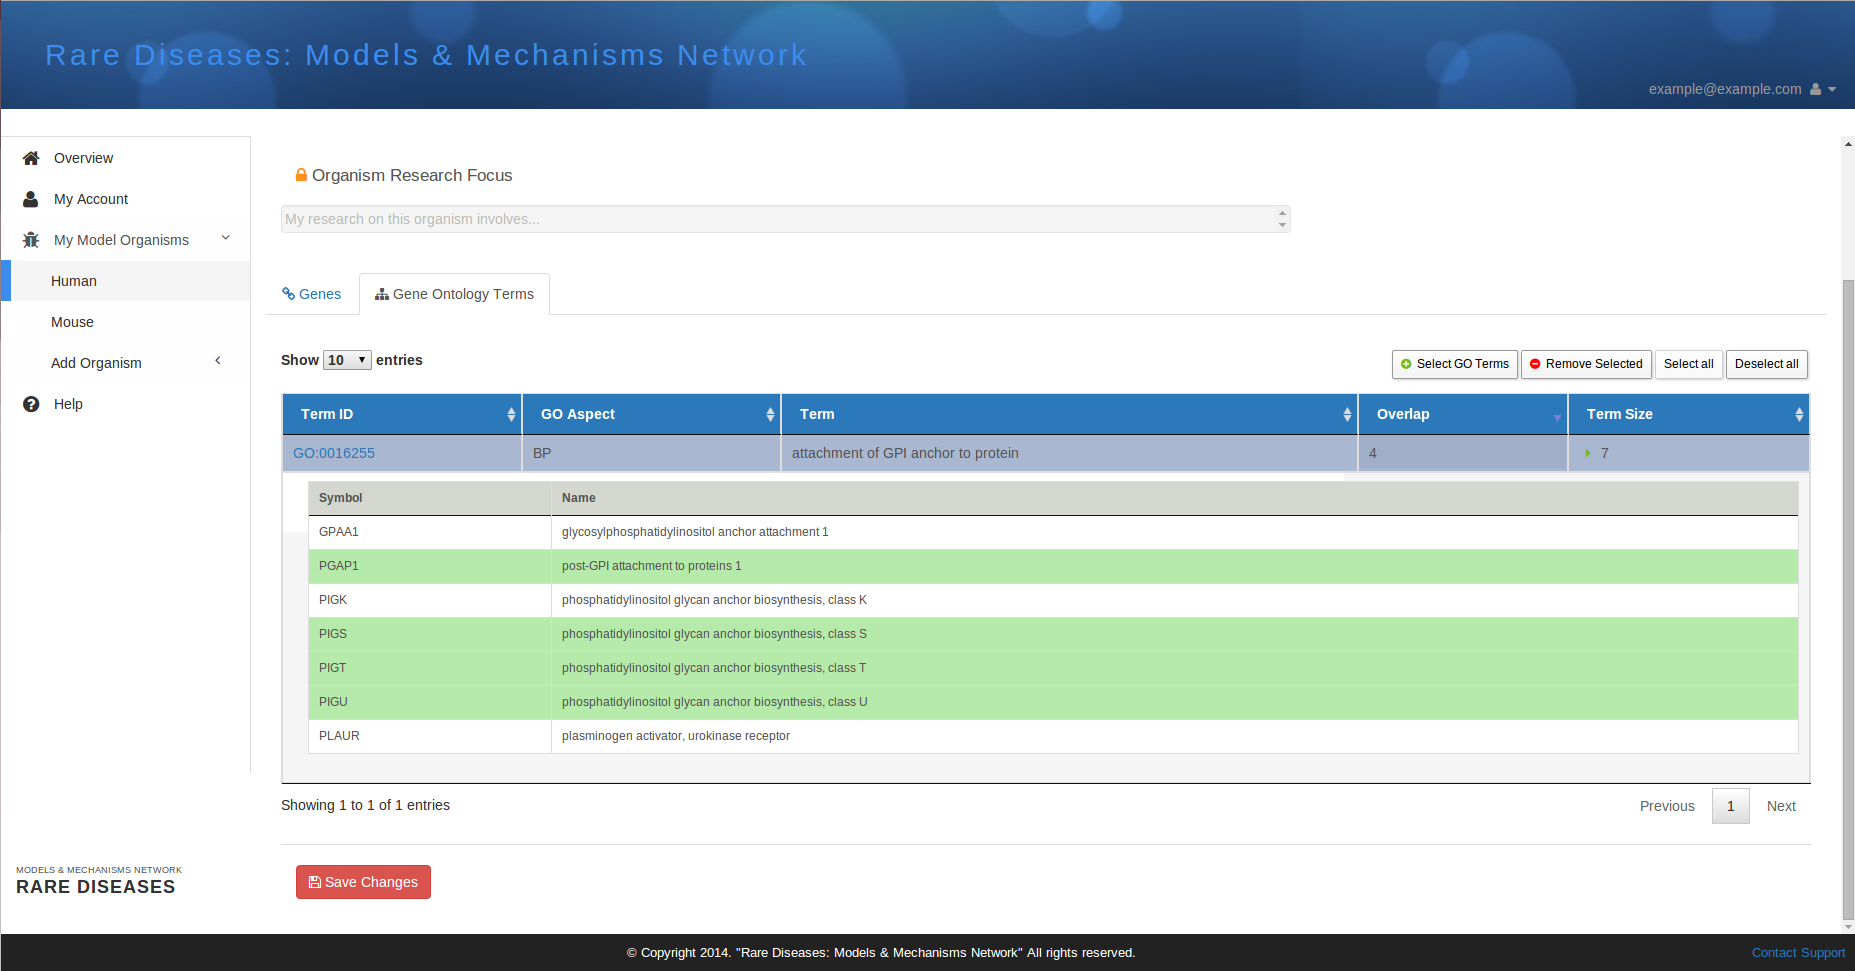
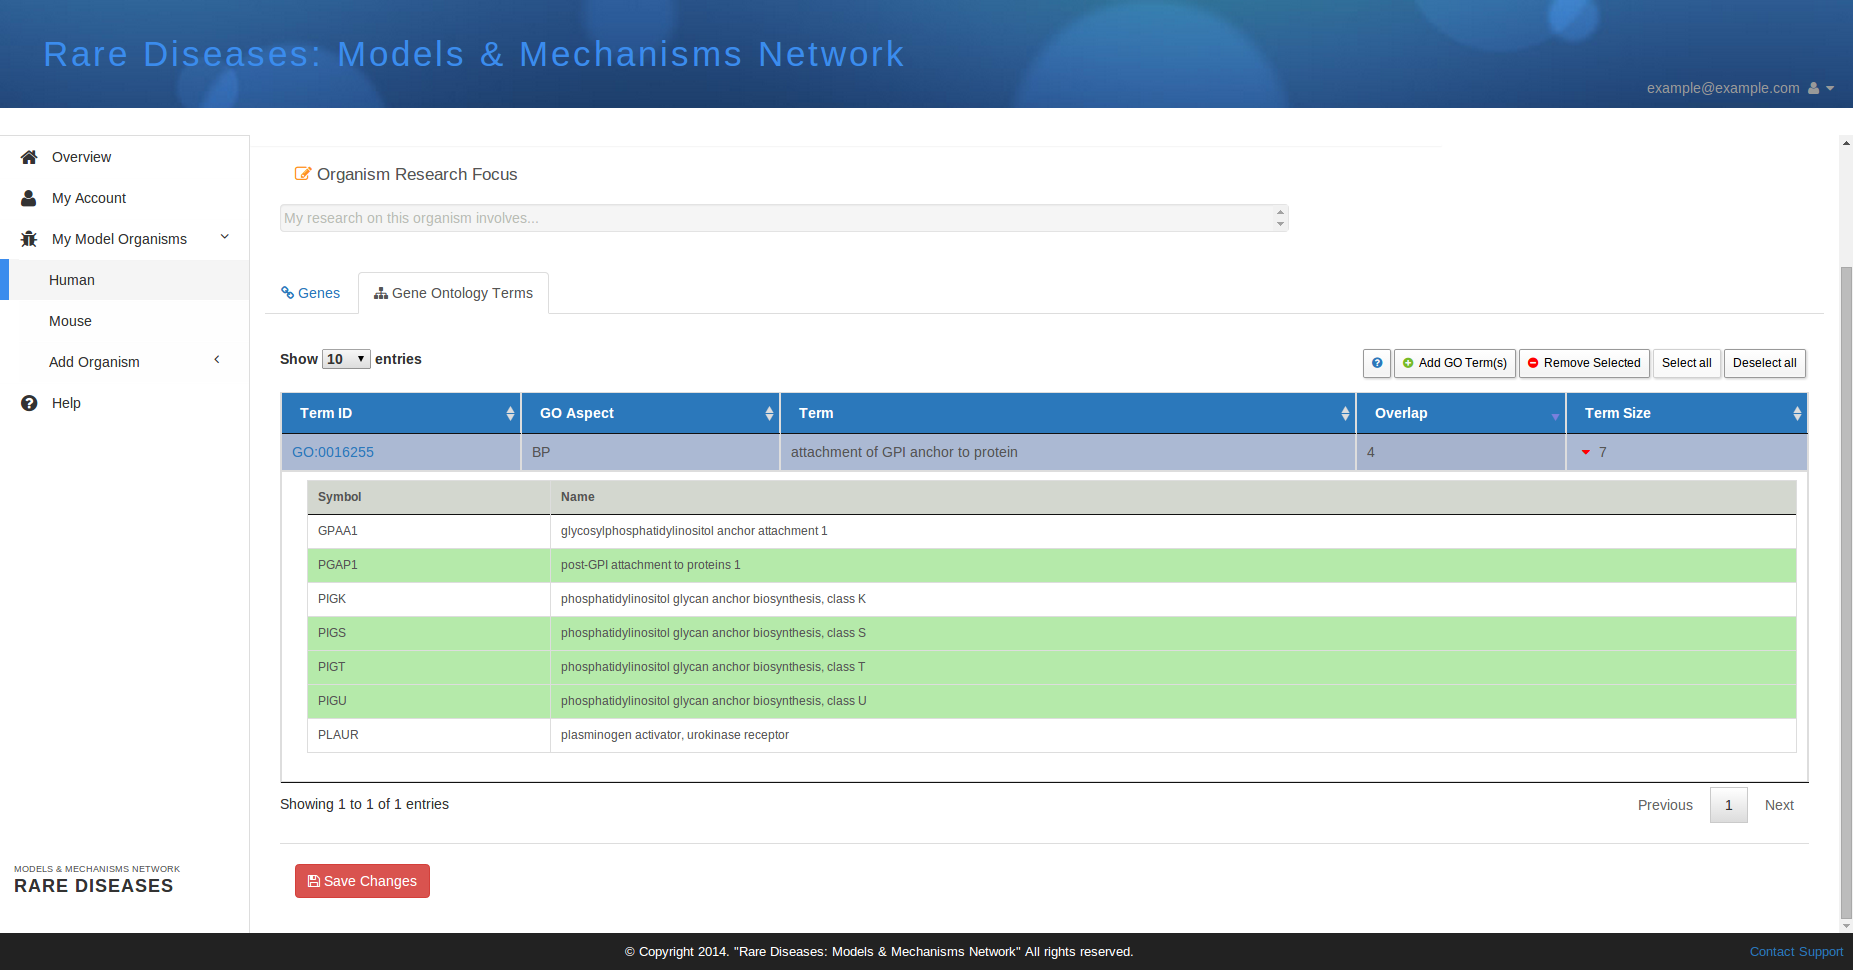
Reimplemented GO term searching, improved search regex (quoting against special characters, case insensitive), sidebar brand linked to gateway, updated help, added multiple select for terms, admin spinner for loading researchers,  minor UI changes

diff --git a/rdp/src/main/webapp/scripts/api/goManager.js b/rdp/src/main/webapp/scripts/api/goManager.js
@@ -50,6 +50,10 @@
       return utility.executeAjax( "getGOTermStats.html", {'geneOntologyId':geneOntologyId, 'taxonId':modelOrganisms.currentTaxonId()}, false );
    }
    
+   getGOTermsStats = function(geneOntologyIds) {
+      return utility.executeAjax( "getGOTermsStats.html", {'geneOntologyIds':geneOntologyIds, 'taxonId':modelOrganisms.currentTaxonId()}, false );
+   }
+   
    goManager.getGenePool = function(geneOntologyId) {
       return utility.executeAjax( "getGenePool.html", {'geneOntologyId':geneOntologyId, 'taxonId':modelOrganisms.currentTaxonId()}, false );
    }
@@ -172,6 +176,108 @@
 
    }
    
+   goManager.addSelectedTerms = function() {
+      var terms = goManager.select2().select2( "data" );
+      goManager.select2().select2( "val", "" );
+      
+      goManager.closeAddTermsModal();
+      
+      goManager.addGoTermsToTable(terms, true);
+
+   }
+   
+   goManager.addGoTermsToTable = function(terms, getStats) {
+
+      if ( terms.length ) {
+         var results = {'failed':[],'added':[], 'large':[]};
+         var refreshTerms = [];
+         var refreshIds = [];
+         for (var i = 0; i < terms.length; i++) {
+            var term = terms[i];
+            var res = addToTable(term)
+            if (!res.success) {
+               console.log(res)
+               console.log(results)
+               console.log(results[res.type])
+               results[res.type].push(res.data);
+            } else if ( getStats && res.row ) {
+               refreshTerms.push({term: term, row: res.row} );
+               refreshIds.push(term.geneOntologyId);
+            }
+         }
+         console.log(refreshTerms);
+         var promise = getGOTermsStats( refreshIds );
+         $.when(promise).done(function() {
+            console.log("promise: ", promise);
+            for (var i = 0; i < refreshTerms.length; i++) {
+               var term = refreshTerms[i].term;
+               var stats = promise.responseJSON[term.geneOntologyId];
+               if ( !utility.isUndefined(stats) ) {
+                  term.size = stats.geneSize;
+                  term.frequency = stats.frequency;
+                  refreshTerms[i].row.invalidate().draw(false);
+               } else {
+                  //Something went wrong.
+               }
+            }
+
+            
+         });
+
+         var delim = ", ";
+         var msg = [];
+         if (results['failed'].length) {
+            msg.push("<p><b>Failed to add</b>: " + results['failed'].join(delim) + "</p>");
+         }
+         
+         if (results['added'].length) {
+            msg.push("<p><b>Already added</b>: " + results['added'].join(delim) + "</p>");
+         }
+         
+         if (results['large'].length) {
+            msg.push("<p><b>Too large</b>: " + results['large'].join(delim) + "</p>");
+         }
+         
+         if (msg.length) {
+            msg = msg.join("\n");
+            var successCnt = terms.length - results['failed'].length -results['added'].length-results['large'].length
+            msg += "\n<b>Successfully added</b> " + successCnt +" term(s)."
+         } else {
+            msg = "<b>Successfully added</b> " + terms.length +" term(s)."
+         }
+         
+         utility.showMessage( msg, $( "#modelOrganisms .main-header .alert div" ) );
+         goManager.table().DataTable().rows().draw(false);
+      }
+   }
+   
+   addToTable = function(term) {
+      
+      if ( term == null ) {
+         console.log("Object is not a Term", term);
+         return {success:false, msg:"Object is not a Term", data:term, type:'failed' };
+      }
+            
+      var table = goManager.table().DataTable();
+      
+      if ( table.column(1).data().indexOf(term.geneOntologyId) != -1 ) {
+         console.log("GO Term already added")
+         return {success:false, msg:"GO Term already added", data:term.geneOntologyId, type:'added' };
+      }
+      
+      if (term.size > sizeLimit) {
+         console.log("GO Term too large")
+         return {success:false, msg:"GO Term too large", data:term.geneOntologyId, type:'large' };
+      }
+      
+      termRow = [term];
+      var inst = table.row.add( termRow );
+      inst.draw(false);
+      
+      return {success:true, row:inst};
+      
+   }
+   
    goManager.openAddTermsModal = function() {
       var dTable = goManager.suggestionTable().DataTable();
       dTable.clear();
@@ -283,7 +389,7 @@ return $(result);
       var dTable = goManager.suggestionTable().DataTable();
       var selectedNodes = dTable.rows( '.selected' );
       if ( selectedNodes.data().length == 0 ) {
-         console.log("Please select a terms to add")
+         console.log("Please select a term to add")
          //utility.showMessage( "Please select a gene to remove", $( "#geneManagerMessage" ) );
          return;
       } else {
@@ -410,6 +516,8 @@ return $(result);
    goManager.initSelect2 = function() {
       // init search genes combo    
       goManager.select2().select2( {
+         multiple: true,
+         closeOnSelect:false,
          id : function(data) {
             return data.geneOntologyId;
          },
@@ -438,6 +546,10 @@ return $(result);
 
          },
          formatResultCssClass: formatTerm,
+         formatSelection : function(item) {
+            item.text = item.text.split('</b>')[0] + '</b>';
+            return item.text
+         },
          formatAjaxError : function(response) {
             var msg = response.responseText;
             return msg;
@@ -451,6 +563,7 @@ return $(result);
 
    goManager.init = function() {
       //$( "#addTermButton" ).click( selectGoTerm );
+      $( "#addTermButton" ).click( goManager.addSelectedTerms );
       $('#term-tab-save').click(saveGoTerms);
       
 
@@ -461,7 +574,7 @@ return $(result);
 $( document ).ready( function() {
    goManager.init();
    goManager.initDataTable( goManager.table(), [ {"sExtends":    "text", "fnClick":function(){return utility.openAccordian($("#aboutcollapse2-4"))}, "sButtonText": '<a href="#"><i class="fa fa-question-circle"></i></a>' },
-                                                 {"sExtends":    "text", "fnClick":goManager.openAddTermsModal, "sButtonText": '<i class="fa fa-plus-circle green-icon"></i>&nbsp; Suggest GO Terms' },
+                                                 {"sExtends":    "text", "fnClick":goManager.openAddTermsModal, "sButtonText": '<i class="fa fa-plus-circle green-icon"></i>&nbsp; Add GO Term(s)' },
                                            {"sExtends":    "text", "fnClick":goManager.removeSelectedRows, "sButtonText": '<i class="fa fa-minus-circle red-icon"></i>&nbsp; Remove Selected' },
                                            "select_all", 
                                            "select_none" ] );

diff --git a/rdp/src/main/webapp/scripts/api/register.js b/rdp/src/main/webapp/scripts/api/register.js
@@ -133,6 +133,10 @@ $( document ).ready( function() {
       $('#menu a[href="#help"]').trigger('click.metisMenu');
     });
    
+   $('#sidebar-brand-bottom').click(function(){
+      window.open("http://www.rare-diseases-catalyst-network.ca/",'_blank');
+    });
+   
 /*   $('a[href="#profile"]').on('show.bs.tab', function() {
       $('a[href="#profile"]').parent('li').removeClass('active');
       $(this).parent('li').addClass('active');

diff --git a/rdp/src/main/webapp/scripts/api/admin.js b/rdp/src/main/webapp/scripts/api/admin.js
@@ -309,6 +309,9 @@
          admin.initDataTable();
          admin.initSelect2();
          var promise = admin.getResearchers();
+         $.when(promise).done(function() {
+            $('#menu > li a[href="#admin"][data-toggle="tab"] span.fa-spin').removeClass("fa-spin");
+         });
          $('#menu > li a[href="#admin"][data-toggle="tab"]').on('shown.bs.tab',function() {
             oTable.fnAdjustColumnSizing();
          });

diff --git a/rdp/src/main/webapp/styles/rdp.css b/rdp/src/main/webapp/styles/rdp.css
@@ -434,6 +434,7 @@ div.sidebar-footer {
 	bottom: 20px;
 	height: 50px;
 	left: 15px;
+	cursor: pointer;
 }
 .sidebar-footer p{
 	font-size: 9px;

diff --git a/rdp/src/main/java/ubc/pavlab/rdp/server/controller/GeneController.java b/rdp/src/main/java/ubc/pavlab/rdp/server/controller/GeneController.java
@@ -712,6 +712,52 @@ public class GeneController {
     }
 
     /*
+     * Used to calculate list of GO Term size on the fly
+     */
+    @RequestMapping("/getGOTermsStats.html")
+    public void getGOTermsStats( HttpServletRequest request, HttpServletResponse response ) throws IOException {
+
+        String jsonText = null;
+        JSONUtil jsonUtil = new JSONUtil( request, response );
+
+        Collection<String> geneOntologyIds = new HashSet<String>( Arrays.asList( request
+                .getParameterValues( "geneOntologyIds[]" ) ) );
+        Long taxonId = Long.parseLong( request.getParameter( "taxonId" ), 10 );
+        try {
+            String username = userManager.getCurrentUsername();
+
+            Researcher researcher = researcherService.findByUserName( username );
+            // Deserialize GO Terms
+            JSONObject results = new JSONObject();
+            for ( String id : geneOntologyIds ) {
+                Long size = gOService.getGeneSizeInTaxon( id, taxonId );
+
+                Collection<Gene> genes = researcher.getDirectGenesInTaxon( taxonId );
+                Long frequency = gOService.computeOverlapFrequency( id, genes );
+                JSONObject json = new JSONObject();
+                json.put( "geneSize", size );
+                json.put( "frequency", frequency );
+                results.put( id, json );
+            }
+
+            results.put( "success", true );
+            results.put( "message", "Stats calculated" );
+            jsonText = results.toString();
+
+        } catch ( Exception e ) {
+            log.error( e.getLocalizedMessage(), e );
+            JSONObject json = new JSONObject();
+            json.put( "success", false );
+            json.put( "message", e.getLocalizedMessage() );
+            jsonText = json.toString();
+            log.info( jsonText );
+        } finally {
+            jsonUtil.writeToResponse( jsonText );
+        }
+
+    }
+
+    /*
      * Used to get genes of a specific taxon in gene pool of a GO TERM
      */
     @RequestMapping("/getGenePool.html")

diff --git a/rdp/src/main/java/ubc/pavlab/rdp/server/service/GOServiceImpl.java b/rdp/src/main/java/ubc/pavlab/rdp/server/service/GOServiceImpl.java
@@ -35,6 +35,7 @@ import java.util.LinkedList;
 import java.util.List;
 import java.util.Map;
 import java.util.concurrent.atomic.AtomicBoolean;
+import java.util.regex.Pattern;
 
 import org.apache.commons.lang3.StringUtils;
 import org.apache.commons.lang3.time.StopWatch;
@@ -249,7 +250,7 @@ public class GOServiceImpl implements GOService {
                 continue;
             }
 
-            String pattern = "(.*)" + queryString + "(.*)";
+            String pattern = "(?i:.*" + Pattern.quote( queryString ) + ".*)";
             // Pattern r = Pattern.compile(pattern);
             String m = term.getTerm();
             // Matcher m = r.matcher( term.getTerm() );
@@ -267,7 +268,7 @@ public class GOServiceImpl implements GOService {
 
             String[] queryList = queryString.split( " " );
             for ( String q : queryList ) {
-                pattern = "(.*)" + q + "(.*)";
+                pattern = "(?i:.*" + Pattern.quote( q ) + ".*)";
                 // r = Pattern.compile(pattern);
                 m = term.getTerm();
                 // m = r.matcher( term.getTerm() );
@@ -282,7 +283,7 @@ public class GOServiceImpl implements GOService {
             if ( results.containsKey( term ) ) continue;
 
             for ( String q : queryList ) {
-                pattern = "(.*)" + q + "(.*)";
+                pattern = "(?i:.*" + Pattern.quote( q ) + ".*)";
                 // r = Pattern.compile(pattern);
                 // m = r.matcher( term.getDefinition() );
                 m = term.getDefinition();
